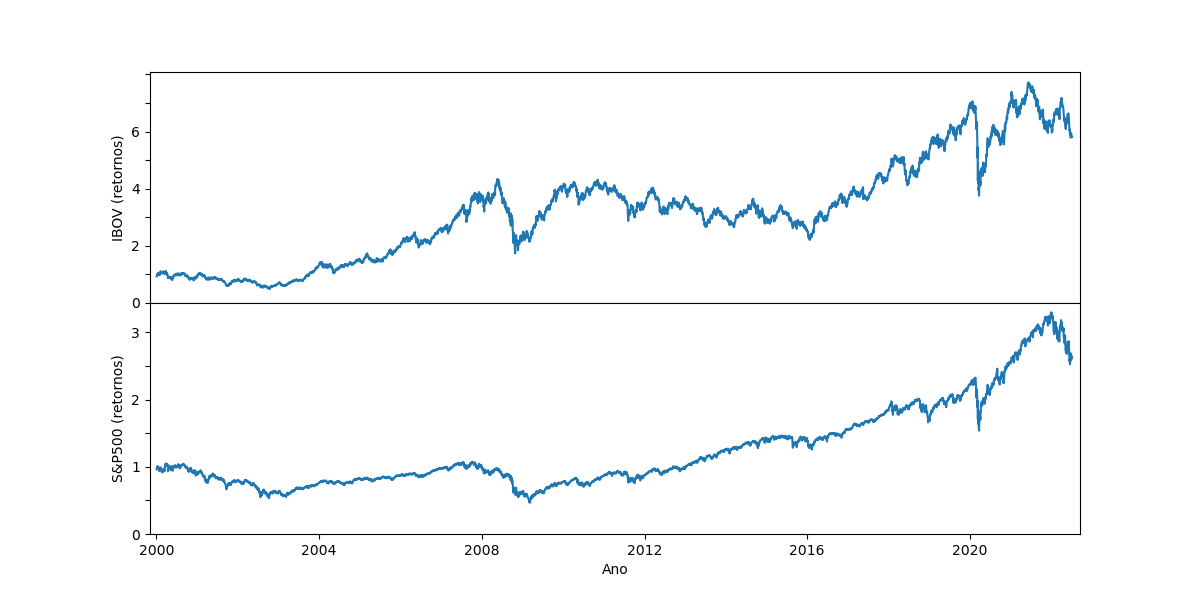
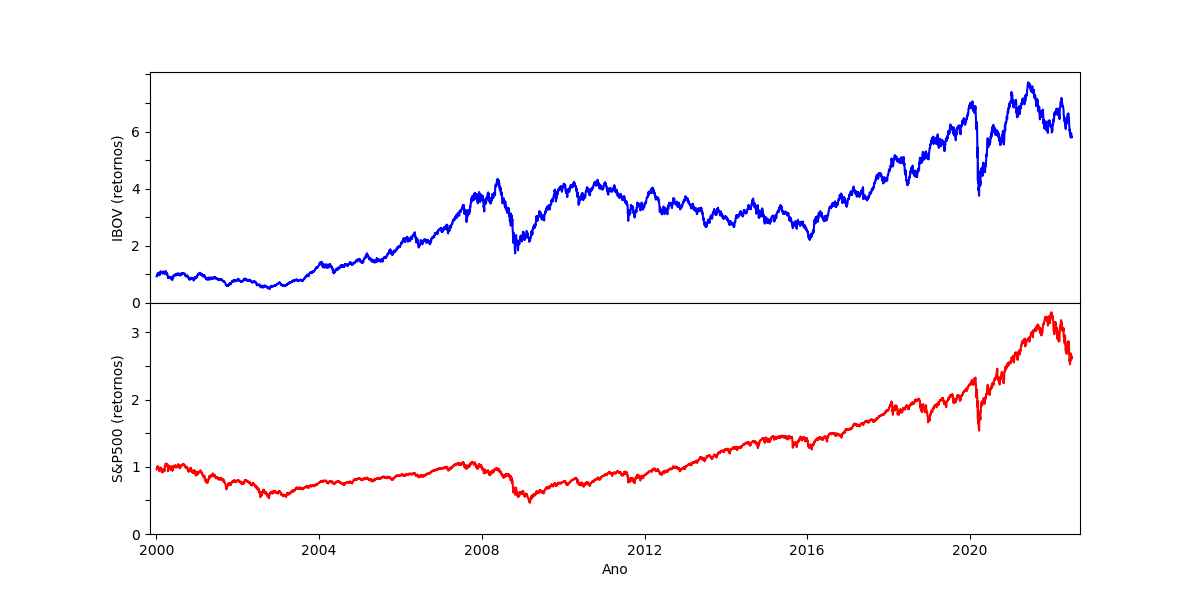
upd

diff --git a/markowitz.py b/markowitz.py
@@ -59,13 +59,13 @@ display(index_data)
 # Agora, vamos gerar os retornos acumulados. Já que nosso retorno é uma razão de preços, devemos calcular os produtos cumulativos (método cumprod do pandas)
 
 fig, ax = plt.subplots(nrows = 2, ncols = 1, figsize = (12,6))
-ax[0].plot(index_data['r_IBOV'].cumprod(), label = 'IBOV')
+ax[0].plot(index_data['r_IBOV'].cumprod(), label = 'IBOV', color = 'blue')
 ax[0].set_ylabel('IBOV (retornos)')
 ax[0].set_xticks([])
 ax[0].set_xlim([10900, 19250])
 ax[0].set_yticks(list(range(9)))
 ax[0].set_yticklabels(['0', '', '2', '', '4', '', '6', '',''])
-ax[1].plot(index_data['r_S&P500'].cumprod(), label = 'S&P500')
+ax[1].plot(index_data['r_S&P500'].cumprod(), label = 'S&P500', color = 'red')
 ax[1].set_ylabel('S&P500 (retornos)')
 ax[1].set_xlim([10900, 19250])
 ax[1].set_yticks([0, 0.5, 1, 1.5, 2, 2.5, 3])

diff --git a/README.md b/README.md
@@ -11,10 +11,18 @@
 
 ## Dados Histórios S&P500 e IBOV
 
+Utilizando o pacote yfinance, podemos obter dados históricos de diversos ativos, incluindo índices de bolsas de vários países. 
+
+Abaixo expomos dados históricos do índice Ibovespa (IBOV) e do índice S&P500.
+
 <img src="indexes.png" 
      style="float: left; margin-left: 10px;" />
 
+Sobre o gráfico, destacamos 4 áreas onde ocorreram mudanças abruptas de preço nos dois índices. A seguir, vamos testar se a curvatura da fronteira eficiente obtida através da otimização de Markowitz expressa algum comportamento relevante nessas regiões.
+
 ## Cestas de Ativos
+
+Agora, vamos escolher quatro ativos presentes em cada um dos índices. Vamos exibir gráficos dos retornos de cada um deles e calcular os retornos médios e as variâncias médias.
 
 ### Google, Mycrosoft, Amazon, Meta
 
